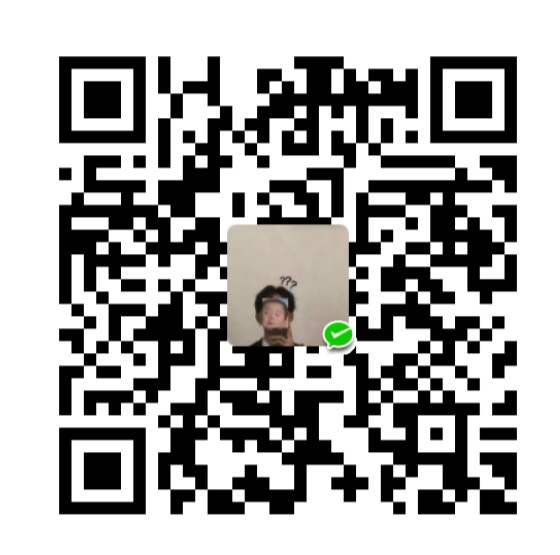
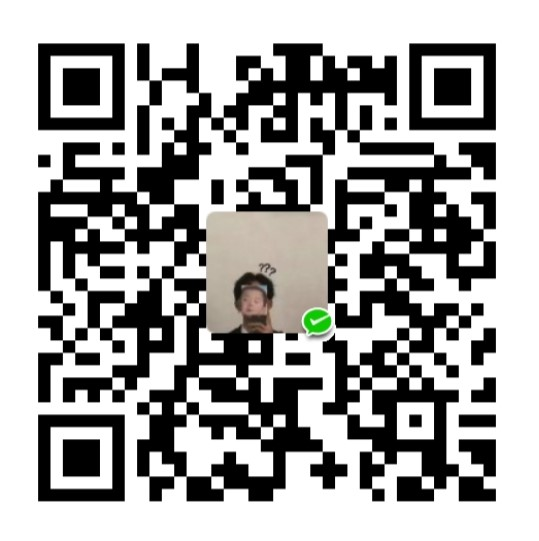
Site updated: 2021-02-15 20:21:31

diff --git a/2021/02/04/hello-world/index.html b/2021/02/04/hello-world/index.html
@@ -687,7 +687,7 @@
                         <img src="/medias/reward/alipay.jpg" class="reward-img" alt="支付宝打赏二维码">
                     </div>
                     <div id="wechat">
-                        <img src="/medias/reward/wechat.png" class="reward-img" alt="微信打赏二维码">
+                        <img src="/medias/reward/wechat.jpg" class="reward-img" alt="微信打赏二维码">
                     </div>
                 </div>
             </div>

diff --git a/2021/02/15/page/index.html b/2021/02/15/page/index.html
@@ -678,7 +678,7 @@
                         <img src="/medias/reward/alipay.jpg" class="reward-img" alt="支付宝打赏二维码">
                     </div>
                     <div id="wechat">
-                        <img src="/medias/reward/wechat.png" class="reward-img" alt="微信打赏二维码">
+                        <img src="/medias/reward/wechat.jpg" class="reward-img" alt="微信打赏二维码">
                     </div>
                 </div>
             </div>
